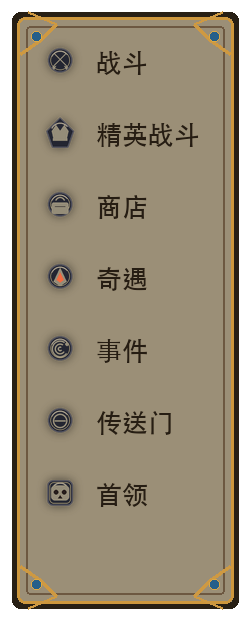
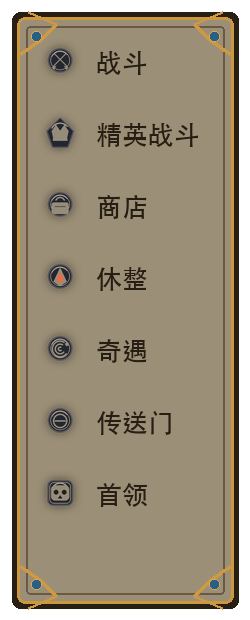
接入地图UI资产

Changed region(s): [[0.392, 0.429, 0.588, 0.4903], [0.392, 0.521, 0.588, 0.5823]]

diff --git a/幻境残卷demo_v0.99.html b/幻境残卷demo_v0.99.html
@@ -46,6 +46,12 @@
             --asset-discard-pile: url('UI/教堂彩窗赛璐璐/战斗HUD/正式资产/子模块/牌堆/discard_pile_stack_asset_v1.png');
             --asset-exile-pile: url('UI/教堂彩窗赛璐璐/战斗HUD/正式资产/子模块/牌堆/exile_pile_stack_asset_v1.png');
             --asset-pile-count: url('UI/教堂彩窗赛璐璐/战斗HUD/正式资产/子模块/牌堆/pile_count_plate_asset_v1.png');
+            --asset-map-bg: url('UI/教堂彩窗赛璐璐/地图UI/正式资产/bg_map_silverwind_hills_01.png');
+            --asset-map-frame: url('UI/教堂彩窗赛璐璐/地图UI/正式资产/map_full_layout_frame_asset_v2.png');
+            --asset-map-region-banner: url('UI/教堂彩窗赛璐璐/地图UI/正式资产/map_region_banner_asset_v2.png');
+            --asset-map-legend: url('UI/教堂彩窗赛璐璐/地图UI/正式资产/map_side_legend_panel_asset_v2.png');
+            --asset-map-detail: url('UI/教堂彩窗赛璐璐/地图UI/正式资产/map_detail_panel_asset_v2.png');
+            --asset-map-enter-button: url('UI/教堂彩窗赛璐璐/地图UI/正式资产/map_enter_button_asset_v2.png');
         }
         
         body, html { margin: 0; padding: 0; height: 100%; background: var(--dark-bg); color: #ddd; font-family: "STKaiti", "华文楷体", "Microsoft YaHei", serif; overflow: hidden; user-select: none; }
@@ -155,57 +161,93 @@
 
         /* ================= 地图场景 ================= */
         #scene-map {
+            isolation: isolate;
+            overflow: hidden;
             background:
-                radial-gradient(circle at 50% 18%, rgba(80, 36, 24, 0.24) 0%, transparent 30%),
-                linear-gradient(180deg, rgba(6, 7, 12, 0.98) 0%, rgba(12, 9, 12, 1) 54%, rgba(2, 2, 3, 1) 100%),
-                linear-gradient(rgba(241, 196, 15, 0.035) 1px, transparent 1px),
-                linear-gradient(90deg, rgba(241, 196, 15, 0.03) 1px, transparent 1px);
-            background-size: 100% 100%, 100% 100%, 72px 72px, 72px 72px;
+                linear-gradient(90deg, rgba(4,18,26,0.62), rgba(0,0,0,0) 18%, rgba(0,0,0,0) 74%, rgba(5,17,25,0.74)),
+                var(--asset-map-bg) center / cover no-repeat,
+                #0a1b23;
         }
-        .map-scroll-container { height: 100%; overflow-y: auto; overflow-x: hidden; padding: 100px 0 110px 0; scrollbar-width: none; position: relative; }
+        #scene-map::after {
+            content: "";
+            position: absolute;
+            inset: 0;
+            z-index: 9;
+            pointer-events: none;
+            background: var(--asset-map-frame) center / 100% 100% no-repeat;
+        }
+        .map-region-banner {
+            position: fixed;
+            top: 74px;
+            left: 50%;
+            transform: translateX(-50%);
+            z-index: 12;
+            width: min(34vw, 420px);
+            height: 84px;
+            background: var(--asset-map-region-banner) center / contain no-repeat;
+            pointer-events: none;
+        }
+        .map-scroll-container { position: absolute; left: 170px; right: 298px; top: 136px; bottom: 56px; height: auto; overflow-y: auto; overflow-x: hidden; padding: 74px 0 94px 0; scrollbar-width: none; z-index: 3; }
         .map-scroll-container::-webkit-scrollbar { display: none; }
         #map-svg-layer { position: absolute; top: 0; left: 0; width: 100%; pointer-events: none; z-index: 1; }
         .map-nodes-layer { position: absolute; top: 0; left: 0; width: 100%; height: 100%; z-index: 2; }
         
-        .map-title-card { position: fixed; top: 86px; left: calc(50% - 610px); z-index: 1400; width: 230px; padding: 16px 18px; border: 1px solid rgba(241,196,15,0.2); background: rgba(8,8,12,0.78); box-shadow: 0 10px 28px rgba(0,0,0,0.55); backdrop-filter: blur(6px); pointer-events: none; }
-        .map-title-card h2 { margin: 0 0 8px; color: var(--gold); font-size: 22px; letter-spacing: 4px; }
-        .map-title-card p { margin: 0; color: #aaa; font-size: 13px; line-height: 1.6; font-family: "Microsoft YaHei", sans-serif; }
-        .map-legend { display: flex; gap: 8px; flex-wrap: wrap; margin-top: 12px; }
-        .legend-pill { padding: 4px 8px; border: 1px solid rgba(255,255,255,0.12); background: rgba(255,255,255,0.04); color: #bbb; font-size: 12px; border-radius: 3px; }
+        .map-title-card { position: fixed; top: 150px; left: calc(50% - 610px); z-index: 11; width: 196px; height: 486px; padding: 0; border: 0; background: var(--asset-map-legend) center / contain no-repeat; filter: drop-shadow(0 12px 18px rgba(0,0,0,0.42)); pointer-events: none; }
+        .map-title-card h2,
+        .map-title-card p,
+        .map-legend { position: absolute; width: 1px; height: 1px; overflow: hidden; clip-path: inset(50%); white-space: nowrap; }
+        .legend-pill { display: none; }
+        .map-detail-panel { position: fixed; top: 150px; right: calc(50% - 620px); z-index: 11; width: 292px; height: 468px; background: var(--asset-map-detail) center / contain no-repeat; filter: drop-shadow(0 14px 20px rgba(0,0,0,0.48)); pointer-events: none; }
         .map-floor { display: flex; justify-content: center; width: 100%; margin-bottom: 100px; pointer-events: none; }
-        .floor-label { position: absolute; left: 50%; transform: translateX(-50%); color: rgba(241,196,15,0.28); font-size: 12px; letter-spacing: 4px; font-family: "Microsoft YaHei", sans-serif; pointer-events: none; }
-        .node-slot { width: 108px; height: 86px; display: flex; flex-direction: column; align-items: center; justify-content: flex-start; pointer-events: auto; position: absolute;}
+        .floor-label { position: absolute; left: 50%; transform: translateX(-50%); color: rgba(45,34,22,0.42); font-size: 12px; letter-spacing: 4px; font-family: "Microsoft YaHei", sans-serif; pointer-events: none; text-shadow: 0 1px rgba(230,202,145,0.32); }
+        .node-slot { width: 104px; height: 102px; display: flex; flex-direction: column; align-items: center; justify-content: flex-start; pointer-events: auto; position: absolute;}
         
-        .node { width: 58px; height: 58px; background: radial-gradient(circle at 35% 28%, rgba(255,255,255,0.08), rgba(10,10,15,0.94)); border: 2px solid #25252d; border-radius: 50%; display: flex; align-items: center; justify-content: center; cursor: default; transition: 0.25s; box-shadow: 0 0 10px rgba(0,0,0,0.9); position: relative; z-index: 5;}
-        .node-content { font-size: 24px; filter: grayscale(1); opacity: 0.2; transition: 0.3s;}
-        .node-label { margin-top: 8px; color: #777; font-size: 12px; letter-spacing: 1px; font-family: "Microsoft YaHei", sans-serif; text-shadow: 0 2px 4px black; opacity: 0.75; white-space: nowrap; }
+        .node { width: 86px; height: 86px; border: 0; border-radius: 50%; display: flex; align-items: center; justify-content: center; cursor: default; transition: 0.22s; box-shadow: none; position: relative; z-index: 5; background: center / contain no-repeat;}
+        .node-content { position: absolute; width: 1px; height: 1px; overflow: hidden; clip-path: inset(50%); white-space: nowrap; }
+        .node-label { margin-top: -5px; color: rgba(42,31,19,0.84); font-size: 12px; letter-spacing: 1px; font-family: "Microsoft YaHei", sans-serif; text-shadow: 0 1px 0 rgba(230,206,150,0.55); opacity: 0.88; white-space: nowrap; font-weight: 700; }
         
-        .node.reachable { cursor: pointer; border-color: var(--gold-dark); box-shadow: 0 0 18px rgba(241, 196, 15, 0.34); background: radial-gradient(circle at 35% 28%, rgba(241,196,15,0.18), rgba(20,20,15,0.95));}
-        .node.reachable .node-content { filter: grayscale(0.5); opacity: 0.8; }
-        .node.reachable:hover { transform: scale(1.2); box-shadow: 0 0 25px var(--gold); border-color: var(--gold); }
-        .node.reachable:hover .node-content { filter: grayscale(0); opacity: 1; }
-        .node.reachable + .node-label { color: #d6b24a; opacity: 1; }
+        .node.reachable { cursor: pointer; filter: drop-shadow(0 0 10px rgba(241,196,15,0.54));}
+        .node.reachable:hover { transform: scale(1.14); filter: drop-shadow(0 0 15px rgba(241,196,15,0.72)); }
+        .node.reachable + .node-label { color: #4f3718; opacity: 1; }
         
-        .node.current { border-color: var(--crimson); box-shadow: 0 0 25px var(--crimson); background: rgba(30,10,10,0.9);}
-        .node.current .node-content { filter: grayscale(0); opacity: 1; }
-        .node.current + .node-label { color: #e6e6e6; opacity: 1; }
+        .node.current { filter: drop-shadow(0 0 13px rgba(158,20,20,0.62));}
+        .node.current + .node-label { color: #5a251c; opacity: 1; }
         
-        .node.passed { border-color: #621; background: rgba(20,5,5,0.8); pointer-events: none; box-shadow: 0 0 10px rgba(158,20,20,0.3);}
-        .node.passed .node-content { filter: grayscale(0.6); opacity: 0.5; }
-        .node.passed + .node-label { color: #855; }
-        .node.node-elite { border-radius: 12px; }
-        .node.node-boss { width: 72px; height: 72px; border-radius: 14px; border-color: rgba(158,20,20,0.75); }
-        .node.node-rest { border-color: rgba(211,84,0,0.45); }
-        .node.node-shop { border-color: rgba(241,196,15,0.38); }
+        .node.passed { pointer-events: none; filter: drop-shadow(0 0 7px rgba(92,38,24,0.46));}
+        .node.passed + .node-label { color: rgba(86,44,28,0.82); }
+        .node.node-battle { background-image: url('UI/教堂彩窗赛璐璐/地图UI/正式资产/节点/map_node_battle_normal_asset_v2.png'); }
+        .node.node-battle.reachable { background-image: url('UI/教堂彩窗赛璐璐/地图UI/正式资产/节点/map_node_battle_reachable_asset_v2.png'); }
+        .node.node-battle.current { background-image: url('UI/教堂彩窗赛璐璐/地图UI/正式资产/节点/map_node_battle_current_asset_v2.png'); }
+        .node.node-battle.passed { background-image: url('UI/教堂彩窗赛璐璐/地图UI/正式资产/节点/map_node_battle_passed_asset_v2.png'); }
+        .node.node-elite { background-image: url('UI/教堂彩窗赛璐璐/地图UI/正式资产/节点/map_node_elite_normal_asset_v2.png'); }
+        .node.node-elite.reachable { background-image: url('UI/教堂彩窗赛璐璐/地图UI/正式资产/节点/map_node_elite_reachable_asset_v2.png'); }
+        .node.node-elite.current { background-image: url('UI/教堂彩窗赛璐璐/地图UI/正式资产/节点/map_node_elite_current_asset_v2.png'); }
+        .node.node-elite.passed { background-image: url('UI/教堂彩窗赛璐璐/地图UI/正式资产/节点/map_node_elite_passed_asset_v2.png'); }
+        .node.node-rest { background-image: url('UI/教堂彩窗赛璐璐/地图UI/正式资产/节点/map_node_rest_normal_asset_v2.png'); }
+        .node.node-rest.reachable { background-image: url('UI/教堂彩窗赛璐璐/地图UI/正式资产/节点/map_node_rest_reachable_asset_v2.png'); }
+        .node.node-rest.current { background-image: url('UI/教堂彩窗赛璐璐/地图UI/正式资产/节点/map_node_rest_current_asset_v2.png'); }
+        .node.node-rest.passed { background-image: url('UI/教堂彩窗赛璐璐/地图UI/正式资产/节点/map_node_rest_passed_asset_v2.png'); }
+        .node.node-shop { background-image: url('UI/教堂彩窗赛璐璐/地图UI/正式资产/节点/map_node_shop_normal_asset_v2.png'); }
+        .node.node-shop.reachable { background-image: url('UI/教堂彩窗赛璐璐/地图UI/正式资产/节点/map_node_shop_reachable_asset_v2.png'); }
+        .node.node-shop.current { background-image: url('UI/教堂彩窗赛璐璐/地图UI/正式资产/节点/map_node_shop_current_asset_v2.png'); }
+        .node.node-shop.passed { background-image: url('UI/教堂彩窗赛璐璐/地图UI/正式资产/节点/map_node_shop_passed_asset_v2.png'); }
+        .node.node-event { background-image: url('UI/教堂彩窗赛璐璐/地图UI/正式资产/节点/map_node_event_normal_asset_v2.png'); }
+        .node.node-event.reachable { background-image: url('UI/教堂彩窗赛璐璐/地图UI/正式资产/节点/map_node_event_reachable_asset_v2.png'); }
+        .node.node-event.current { background-image: url('UI/教堂彩窗赛璐璐/地图UI/正式资产/节点/map_node_event_current_asset_v2.png'); }
+        .node.node-event.passed { background-image: url('UI/教堂彩窗赛璐璐/地图UI/正式资产/节点/map_node_event_passed_asset_v2.png'); }
+        .node.node-boss { background-image: url('UI/教堂彩窗赛璐璐/地图UI/正式资产/节点/map_node_boss_normal_asset_v2.png'); width: 98px; height: 98px; }
+        .node.node-boss.reachable { background-image: url('UI/教堂彩窗赛璐璐/地图UI/正式资产/节点/map_node_boss_reachable_asset_v2.png'); }
+        .node.node-boss.current { background-image: url('UI/教堂彩窗赛璐璐/地图UI/正式资产/节点/map_node_boss_current_asset_v2.png'); }
+        .node.node-boss.passed { background-image: url('UI/教堂彩窗赛璐璐/地图UI/正式资产/节点/map_node_boss_passed_asset_v2.png'); }
         .map-path { fill: none; stroke-linecap: round; opacity: 0.9; }
-        .map-path.path-gray { stroke: rgba(75,75,86,0.72); stroke-width: 2; }
-        .map-path.path-red { stroke: var(--crimson); stroke-width: 4; filter: drop-shadow(0 0 6px rgba(158,20,20,0.75)); }
-        .map-path.path-yellow { stroke: var(--gold); stroke-width: 4; stroke-dasharray: 10 10; filter: drop-shadow(0 0 7px rgba(241,196,15,0.75)); animation: pathPulse 1.8s linear infinite; }
+        .map-path.path-gray { stroke: rgba(46,35,22,0.62); stroke-width: 7; }
+        .map-path.path-red { stroke: #9e1414; stroke-width: 7; filter: drop-shadow(0 0 4px rgba(95,22,18,0.45)); }
+        .map-path.path-yellow { stroke: #d8b04b; stroke-width: 7; stroke-dasharray: 14 10; filter: drop-shadow(0 0 5px rgba(241,196,15,0.48)); animation: pathPulse 1.8s linear infinite; }
         @keyframes pathPulse { to { stroke-dashoffset: -20; } }
         
-        .map-bottom-ui { position: fixed; bottom: 30px; left: 50%; transform: translateX(-50%); width: 100%; max-width: 1280px; display: flex; justify-content: space-between; padding: 0 60px; box-sizing: border-box; z-index: 1500; pointer-events: none; }
-        .map-ui-btn { pointer-events: auto; padding: 12px 25px; background: rgba(15, 15, 20, 0.95); border: 1px solid #444; color: var(--text-gray); font-size: 16px; font-weight: bold; letter-spacing: 2px; border-radius: 4px; cursor: pointer; box-shadow: 0 4px 15px rgba(0,0,0,0.8); transition: 0.3s; font-family: "STKaiti", serif;}
-        .map-ui-btn:hover { background: rgba(30, 20, 10, 0.9); border-color: var(--gold); color: var(--gold); box-shadow: 0 0 20px rgba(241,196,15,0.4); transform: translateY(-3px); }
+        .map-bottom-ui { position: fixed; bottom: 28px; left: 50%; transform: translateX(-50%); width: 100%; max-width: 1280px; display: flex; justify-content: space-between; padding: 0 48px; box-sizing: border-box; z-index: 15; pointer-events: none; }
+        .map-ui-btn { pointer-events: auto; min-width: 210px; min-height: 58px; padding: 10px 26px; background: var(--asset-map-enter-button) center / 100% 100% no-repeat; border: 0; color: #f1dfb5; font-size: 17px; font-weight: bold; letter-spacing: 2px; border-radius: 0; cursor: pointer; text-shadow: 0 2px 0 rgba(0,0,0,0.72); transition: 0.22s; font-family: "STKaiti", serif;}
+        .map-ui-btn:hover { color: #fff5c8; filter: drop-shadow(0 0 12px rgba(241,196,15,0.48)); transform: translateY(-3px); }
 
         /* ================= 战斗界面 ================= */
         #scene-battle {
@@ -1468,6 +1510,7 @@
     </div>
 
     <div id="scene-map" class="scene">
+        <div class="map-region-banner" aria-hidden="true"></div>
         <div class="map-title-card">
             <h2>命途星图</h2>
             <p>选择下一处幻境。金色路线可前进，红色路线记录已踏过的命运。</p>
@@ -1479,6 +1522,7 @@
                 <span class="legend-pill">📜 奇遇</span>
             </div>
         </div>
+        <div class="map-detail-panel" aria-hidden="true"></div>
         <div class="map-bottom-ui">
             <button class="map-ui-btn" onclick="returnToMenu()">🏠 返回主界</button>
             <button class="map-ui-btn" onclick="viewGlobalDeck()">🎴 查看牌组 (<span id="ui-deck-total-map">0</span>)</button>

diff --git a/src/data/enemies.js b/src/data/enemies.js
@@ -32,11 +32,12 @@ const ENEMIES = [
 
 const MAP_NODE_META = {
     battle: { icon: "⚔", label: "战斗" },
-    elite: { icon: "💀", label: "精英" },
-    rest: { icon: "🔥", label: "营火" },
+    elite: { icon: "💀", label: "精英战斗" },
+    rest: { icon: "🔥", label: "休整" },
     event: { icon: "📜", label: "奇遇" },
     boss: { icon: "🐉", label: "首领" },
-    shop: { icon: "💰", label: "商店" }
+    shop: { icon: "💰", label: "商店" },
+    empty: { icon: "◇", label: "传送门" }
 };
 const MAP_LANE_LEFT = [18, 32, 46, 60, 74];
 const MAP_FLOOR_GAP = 150;

diff --git a/tools/generate_map_ui_assets.py b/tools/generate_map_ui_assets.py
@@ -492,7 +492,7 @@ def create_side_legend_panel():
     img = Image.new("RGBA", (250, 620), (0, 0, 0, 0))
     d = ImageDraw.Draw(img, "RGBA")
     draw_ornate_frame(d, (12, 12, 238, 608), radius=8, line=3, fill=(113, 96, 62, 180))
-    entries = [("battle", "战斗"), ("elite", "精英战斗"), ("shop", "商店"), ("rest", "奇遇"), ("event", "事件"), ("empty", "传送门"), ("boss", "首领")]
+    entries = [("battle", "战斗"), ("elite", "精英战斗"), ("shop", "商店"), ("rest", "休整"), ("event", "奇遇"), ("empty", "传送门"), ("boss", "首领")]
     for i, (kind, label) in enumerate(entries):
         y = 54 + i * 72
         node = create_node(kind, "normal").resize((48, 48), Image.LANCZOS)
@@ -659,8 +659,8 @@ def create_node_sheet_v2(node_paths):
         "battle": "战斗",
         "elite": "精英战斗",
         "shop": "商店",
-        "rest": "奇遇",
-        "event": "事件",
+        "rest": "休整",
+        "event": "奇遇",
         "empty": "传送门",
         "boss": "首领",
     }

diff --git a/UI/教堂彩窗赛璐璐/地图UI/README.md b/UI/教堂彩窗赛璐璐/地图UI/README.md
@@ -2,7 +2,7 @@
 
 这一批是地图推进界面的美术资产包。v2 已按 `概念图/地图概念图.png` 对齐：羊皮纸山川地图、左侧图例、顶部区域铭牌、黄铜纹章节点、右侧地点详情面板与蓝金“进入”按钮。
 
-正式接入建议优先使用这些 v2 文件。
+保留旧 v1 星图稿作为历史探索；正式接入建议优先使用 v2 文件。
 
 ## 文件
 
